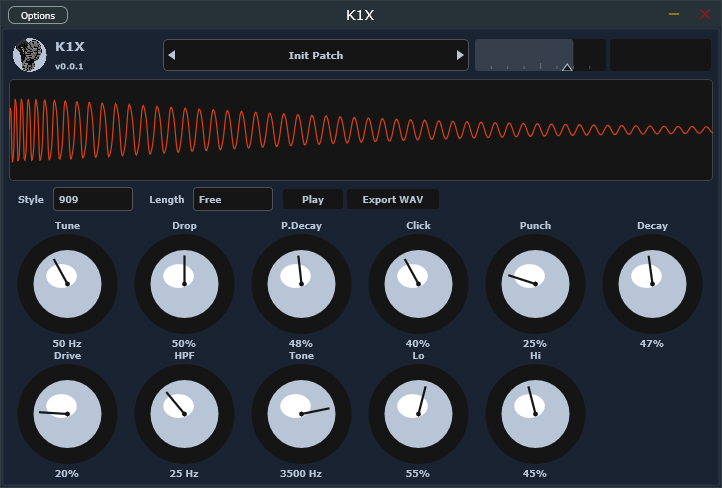
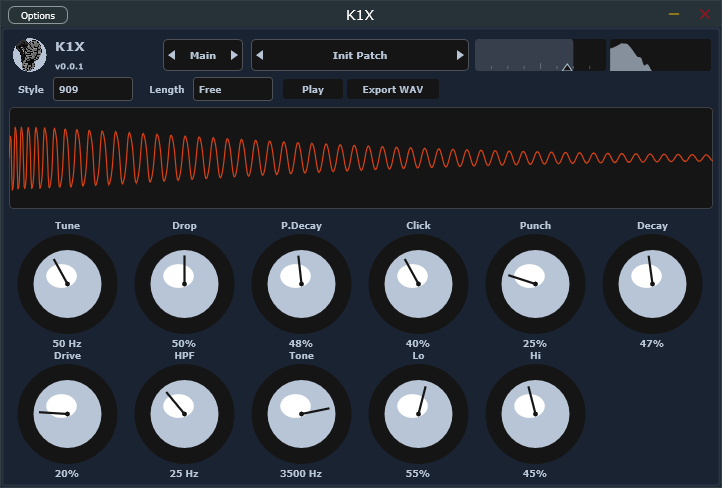
show main and effects screenshots
- caption both pages on the docs site
- mention synced reverb predelay

Changed region(s): [[0.0, 0.0615, 1.0, 0.4303], [0.3961, 0.0922, 0.5485, 0.123]]

diff --git a/docs/index.html b/docs/index.html
@@ -26,7 +26,7 @@
         <p class="tag">Kick drum. 909, 808, and friends.</p>
       </div>
     </div>
-    <p>Tune, click, decay, drive, filters, then a parallel FX send and post EQ. Snap the length to 1/4, 1/8, or 1/16 of the DAW tempo so the kick fits the grid.</p>
+    <p>Tune, click, decay, drive, filters, then a parallel FX send and post EQ. Length and reverb predelay can snap to the DAW tempo.</p>
     <p class="demo">
       <a href="K1X-DEMO1.mp3">K1X-DEMO1.mp3</a>
       <audio controls preload="metadata">
@@ -40,11 +40,18 @@
     </p>
     <p class="meta">VST3 and standalone.</p>
 
-    <img class="shot" src="screenshot1.png" alt="K1X: waveform, Style, Length, and knobs">
+    <figure>
+      <img class="shot" src="screenshot1.png" alt="K1X Main: waveform, Style, Length, and kick knobs">
+      <figcaption>Main — kick, length, Play, Export WAV.</figcaption>
+    </figure>
+    <figure>
+      <img class="shot" src="screenshot2.png" alt="K1X Effects: Dry/FX send, delay sync, reverb predelay, post EQ">
+      <figcaption>Effects — Dist / Delay / Reverb send and post EQ. Sync snaps delay and reverb predelay to the tempo.</figcaption>
+    </figure>
 
     <section id="sound" class="card">
       <h2>Sound</h2>
-      <p>Sine body with a pitch drop and a noise click, then saturation, high-pass, tone, and lo/hi shelves. Main page is the kick. Effects page is the Dry/FX send plus post EQ. Spectrum is the processed output. Waveform preview stays the dry kick.</p>
+      <p>Sine body with a pitch drop and a noise click, then saturation, high-pass, tone, and lo/hi shelves. Main page is the kick. Effects page is Dry/FX (distortion, delay, reverb) plus post EQ. Reverb predelay is milliseconds, or Sync detents the knob to 1/64–1/8. Spectrum is the processed output. Waveform preview stays the dry kick.</p>
     </section>
 
     <section id="standalone" class="card">

diff --git a/docs/style.css b/docs/style.css
@@ -73,12 +73,18 @@ main {
 
 .hero { display: block; flex-shrink: 0; }
 
+figure { margin: 1.2rem 0 0; }
 .shot {
   display: block;
   width: 100%;
-  margin: 1.2rem 0 0;
+  margin: 0;
   border-radius: 4px;
   border: 1px solid #000;
+}
+figcaption {
+  margin-top: 0.4rem;
+  font-size: 0.85rem;
+  opacity: 0.8;
 }
 
 h1, h2 { color: var(--orange); margin: 0 0 0.4rem; }

diff --git a/docs/ARCHITECTURE.md b/docs/ARCHITECTURE.md
@@ -7,7 +7,7 @@ Audio thread:
 1. MIDI note-on or UI Play sets a trigger
 2. MIDI note sets body Hz; Play uses the Tune knob. Voice also reads style and length (host BPM)
 3. Click + sine → tanh → HP → LP → lo/hi → length gate → stereo copy
-4. Parallel send: Distortion → Delay → Reverb, mix Dry + FX, then 5-band post EQ
+4. Parallel send: Distortion → Delay → Reverb pre-delay → Reverb, mix Dry + FX, then 5-band post EQ
 5. EqAnalyser + meter tap the post-EQ buffer (spectrum shows the affected signal)
 
 Message thread:

diff --git a/docs/PRD.md b/docs/PRD.md
@@ -8,7 +8,7 @@ A 909-inspired kick (plus 808 / 707 / Tight / Hard) you can tune and process, wi
 
 - Sine body + pitch envelope + click
 - Drive, HPF, tone LP, lo/hi shelves
-- Parallel post FX: distortion, delay, reverb, Dry/FX mixer
+- Parallel post FX: distortion, delay, reverb (predelay ms or tempo-synced 1/64…1/8), Dry/FX mixer
 - Post EQ (5-band parametric) with spectrum of the processed output
 - Waveform preview
 - Length: Free / 1/4 / 1/8 / 1/16 from host BPM
